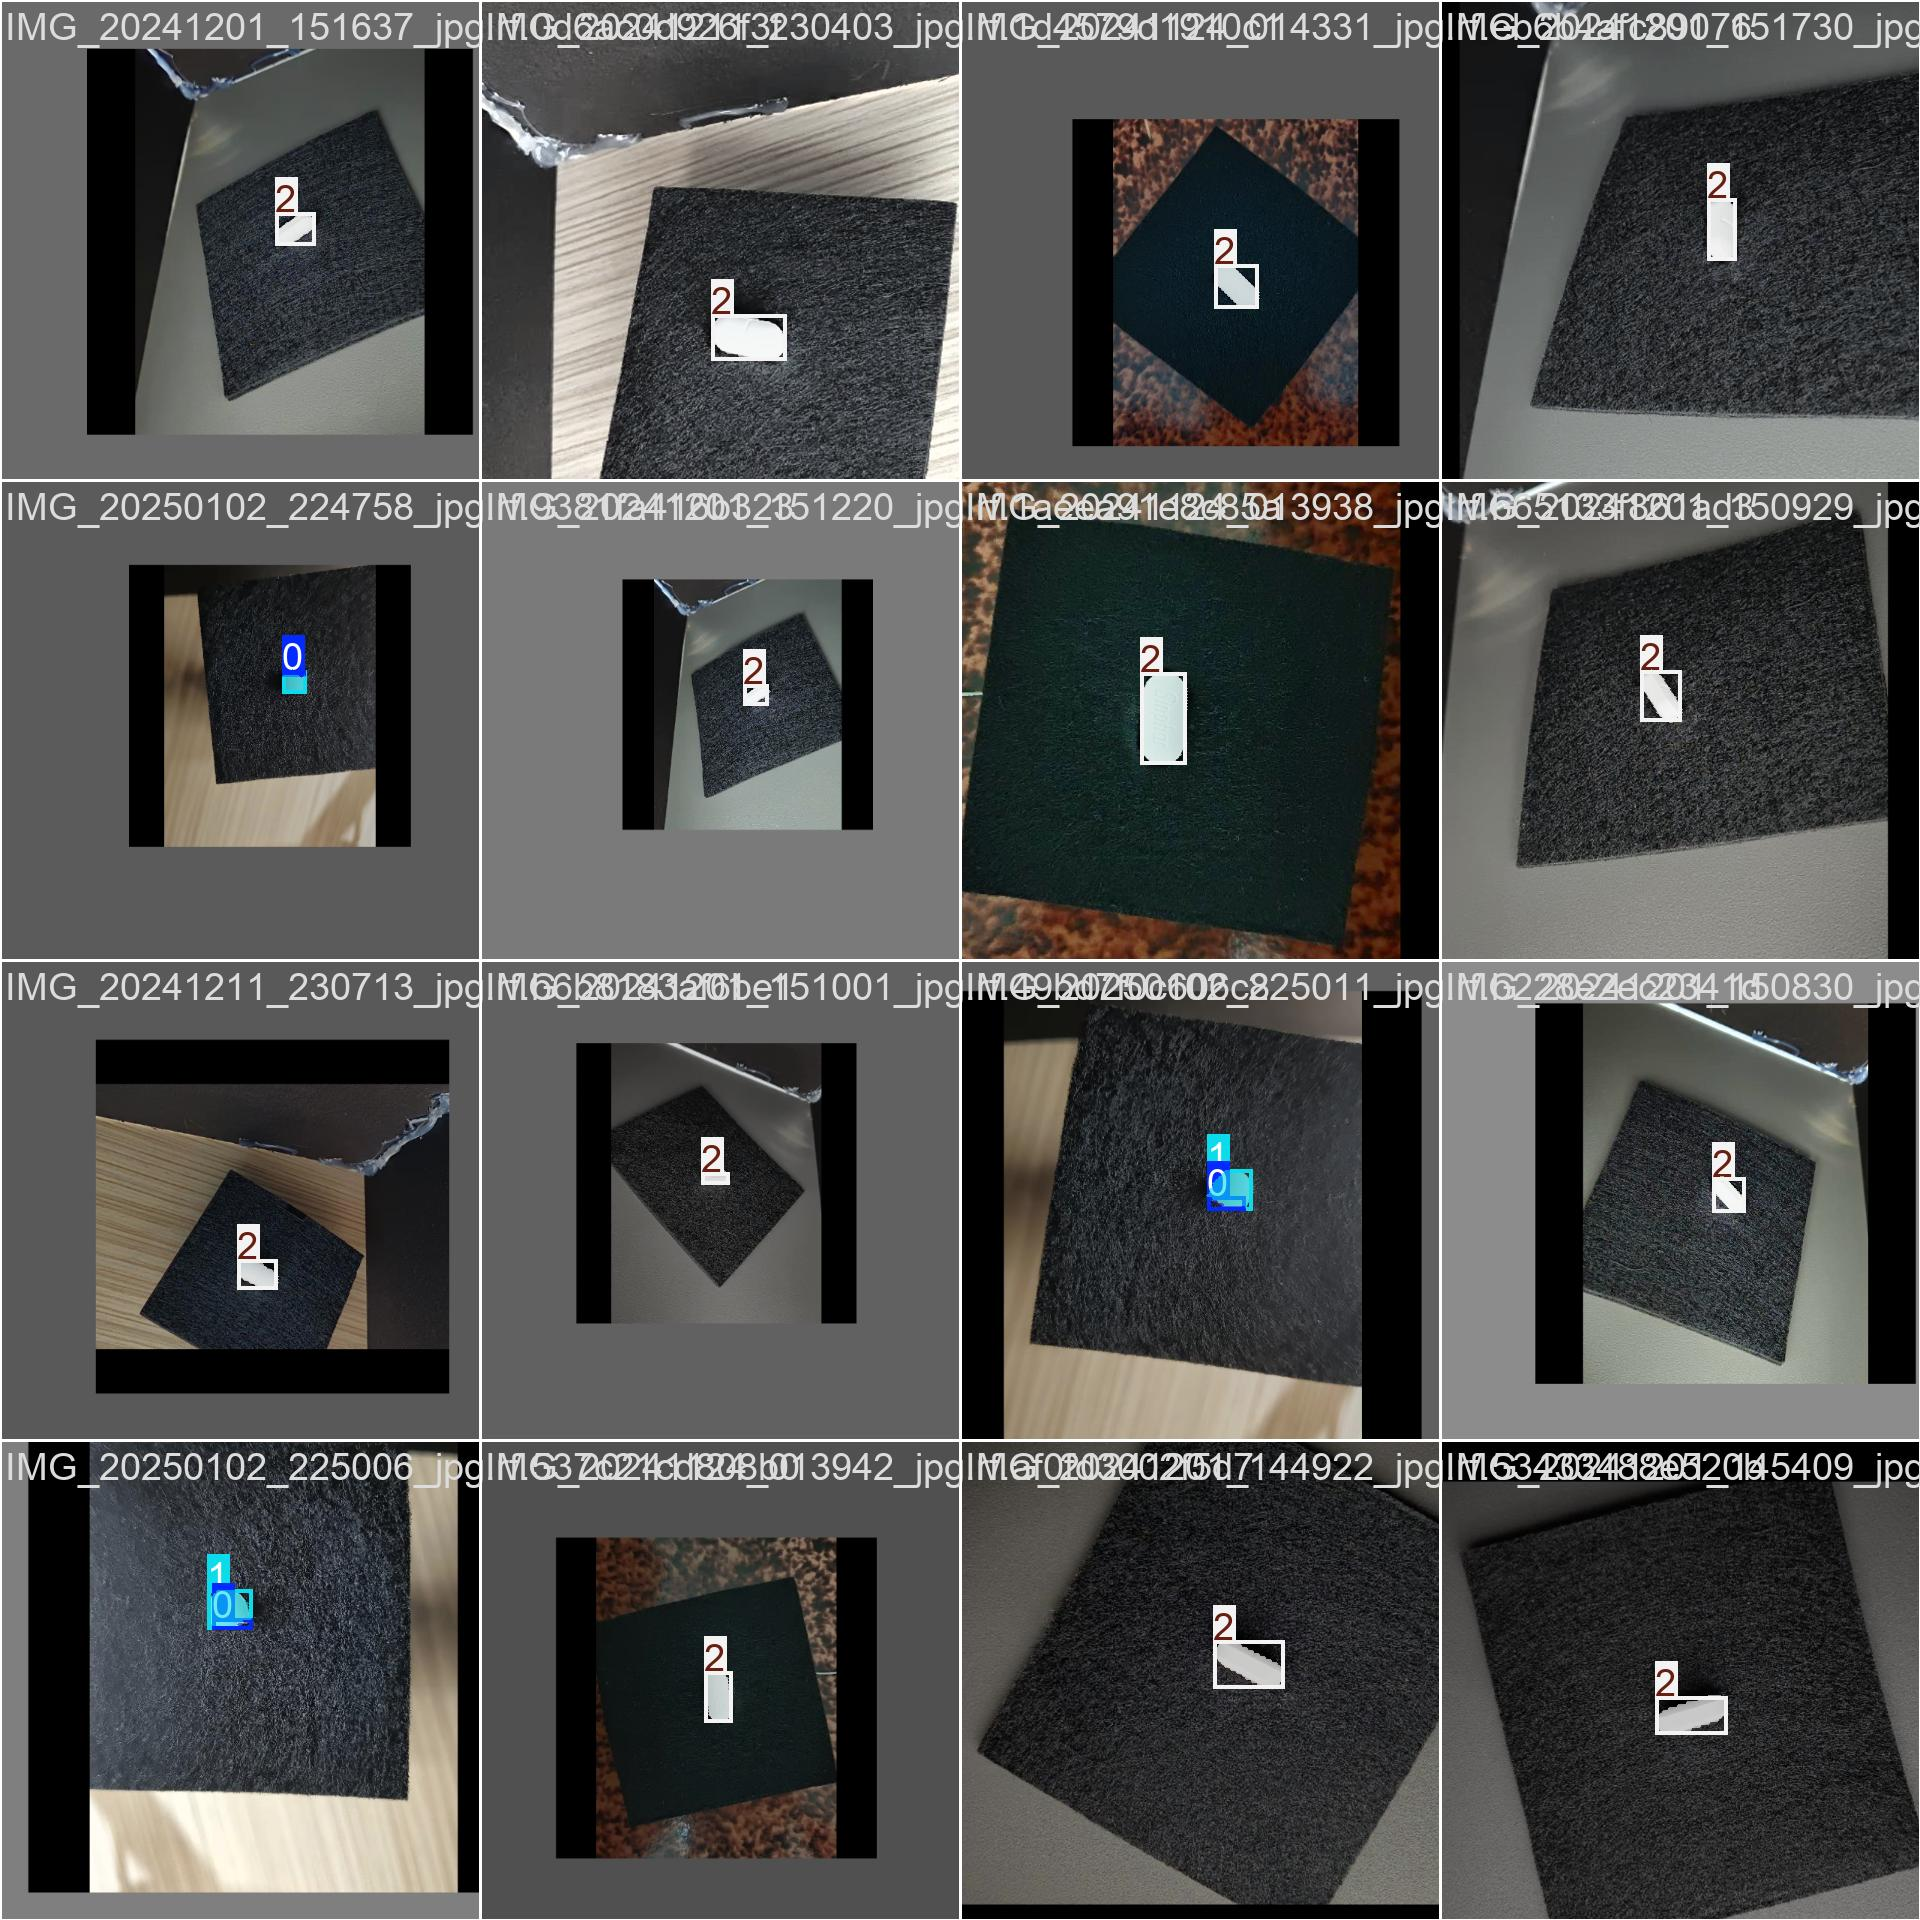
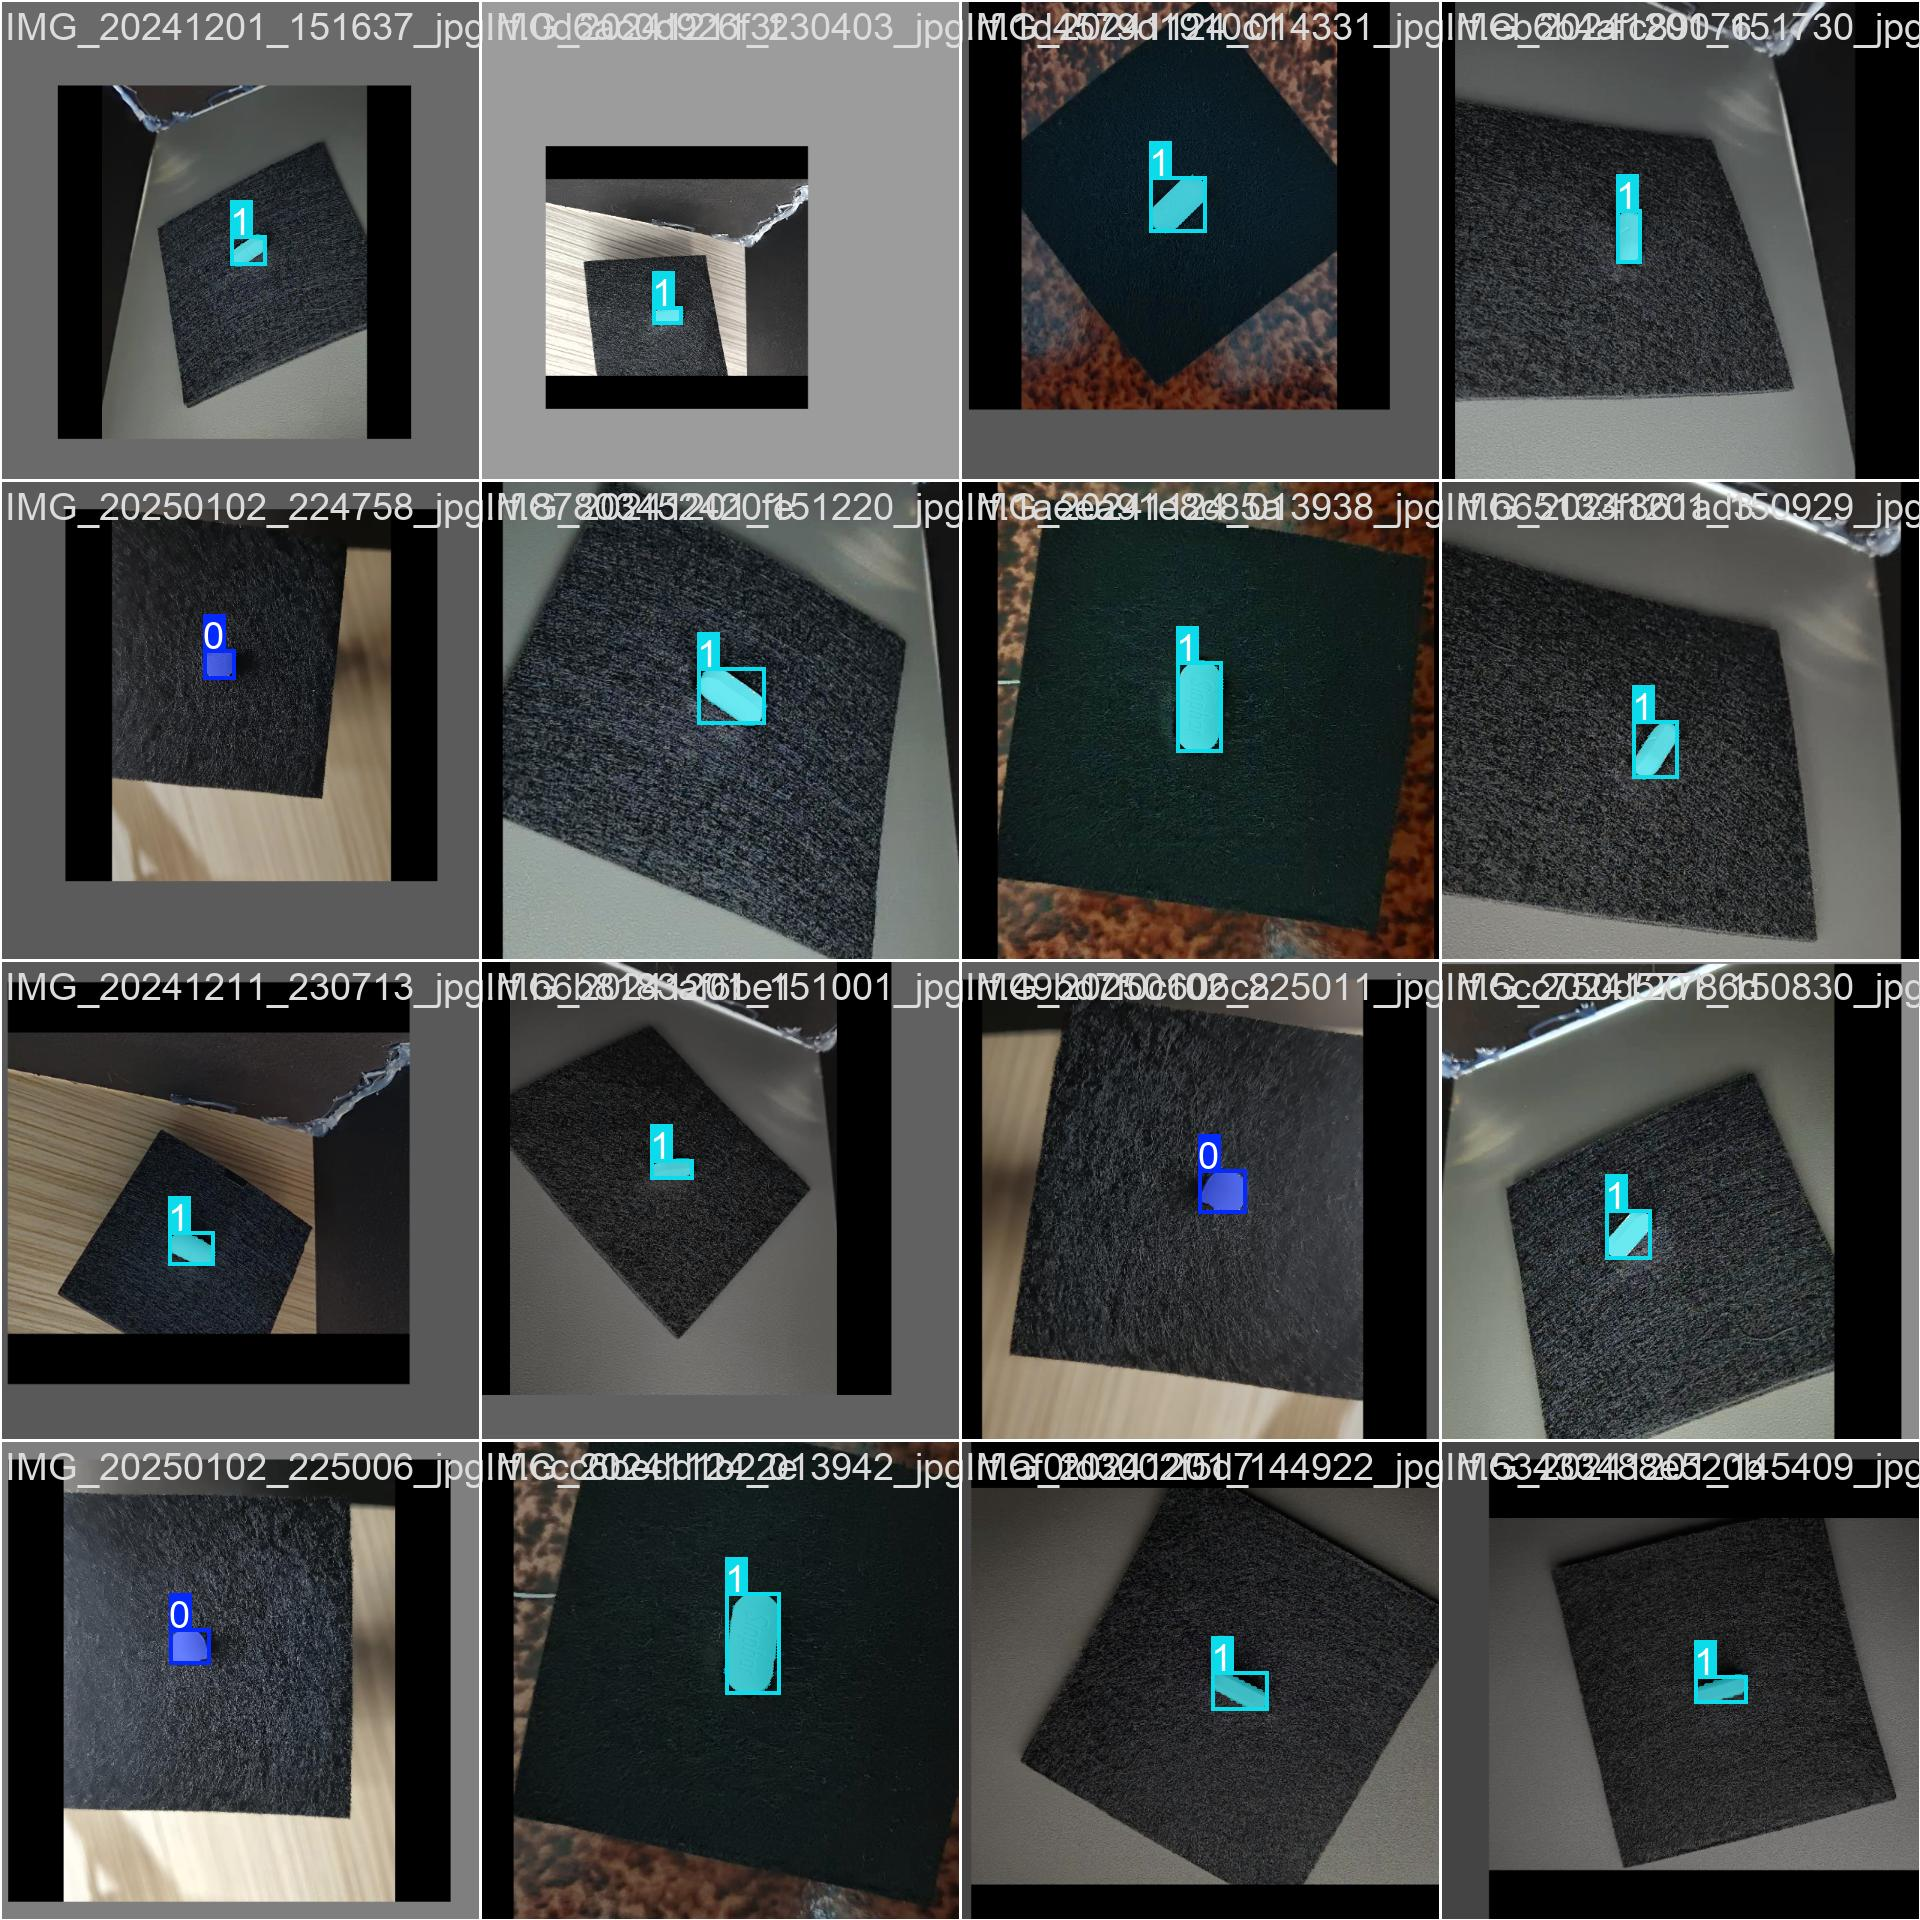
Update notes with new information

diff --git a/project/code/data.py b/project/code/data.py
@@ -1,7 +1,7 @@
 from ultralytics import YOLO
 
-model = YOLO(r"C:\Users\user\Downloads\YOLOv8\ultralytics\segment\train-FCB(100-640)\weights\best.pt")  # 你的模型
-metrics = model.val(data=r"C:\Users\user\Downloads\YOLOv8\ultralytics\Capsule.v9-fcb-two.yolov8\data.yaml")  # 輸出驗證結果
+model = YOLO(r"C:\Users\user\Downloads\YOLOv8\ultralytics\segment\pill\train\weights\best.pt")  # 你的模型
+metrics = model.val(data=r"C:\Users\user\Downloads\YOLOv8\ultralytics\Pharmaceutical.v9-721-new.yolov8\data.yaml")  # 輸出驗證結果
 
 # metrics 會自動包含 precision、recall、F1-score、mAP 等
 print(metrics.box.f1)  # 或 metrics.box.precision, etc.

diff --git a/project/code/Accuracy and F1score.py b/project/code/Accuracy and F1score.py
@@ -1,12 +1,13 @@
-TP = 90  # 全部預測中都是對的（因為 Recall = 1）
+TP = 51  # 全部預測中都是對的（因為 Recall = 1）
 #FP = round((1 - 0.998) * TP / 0.998)  # 四捨五入
-FP = (1 - 0.999) * TP / 0.999
+FP = (1 - 0.997) * TP / 0.997
 FN = 0    # 因為 Recall = 1
+TN = 43
 
-accuracy = TP / (TP + FP + FN)
+accuracy = (TP + TN) / (TP + FP + FN + TN)
 print(f"Accuracy ≈ {accuracy:.4f}")  # 應該會是 1.0000 左右
 
-precision = 0.999
+precision = 0.997
 recall = 1.0
 
 f1 = 2 * (precision * recall) / (precision + recall)
